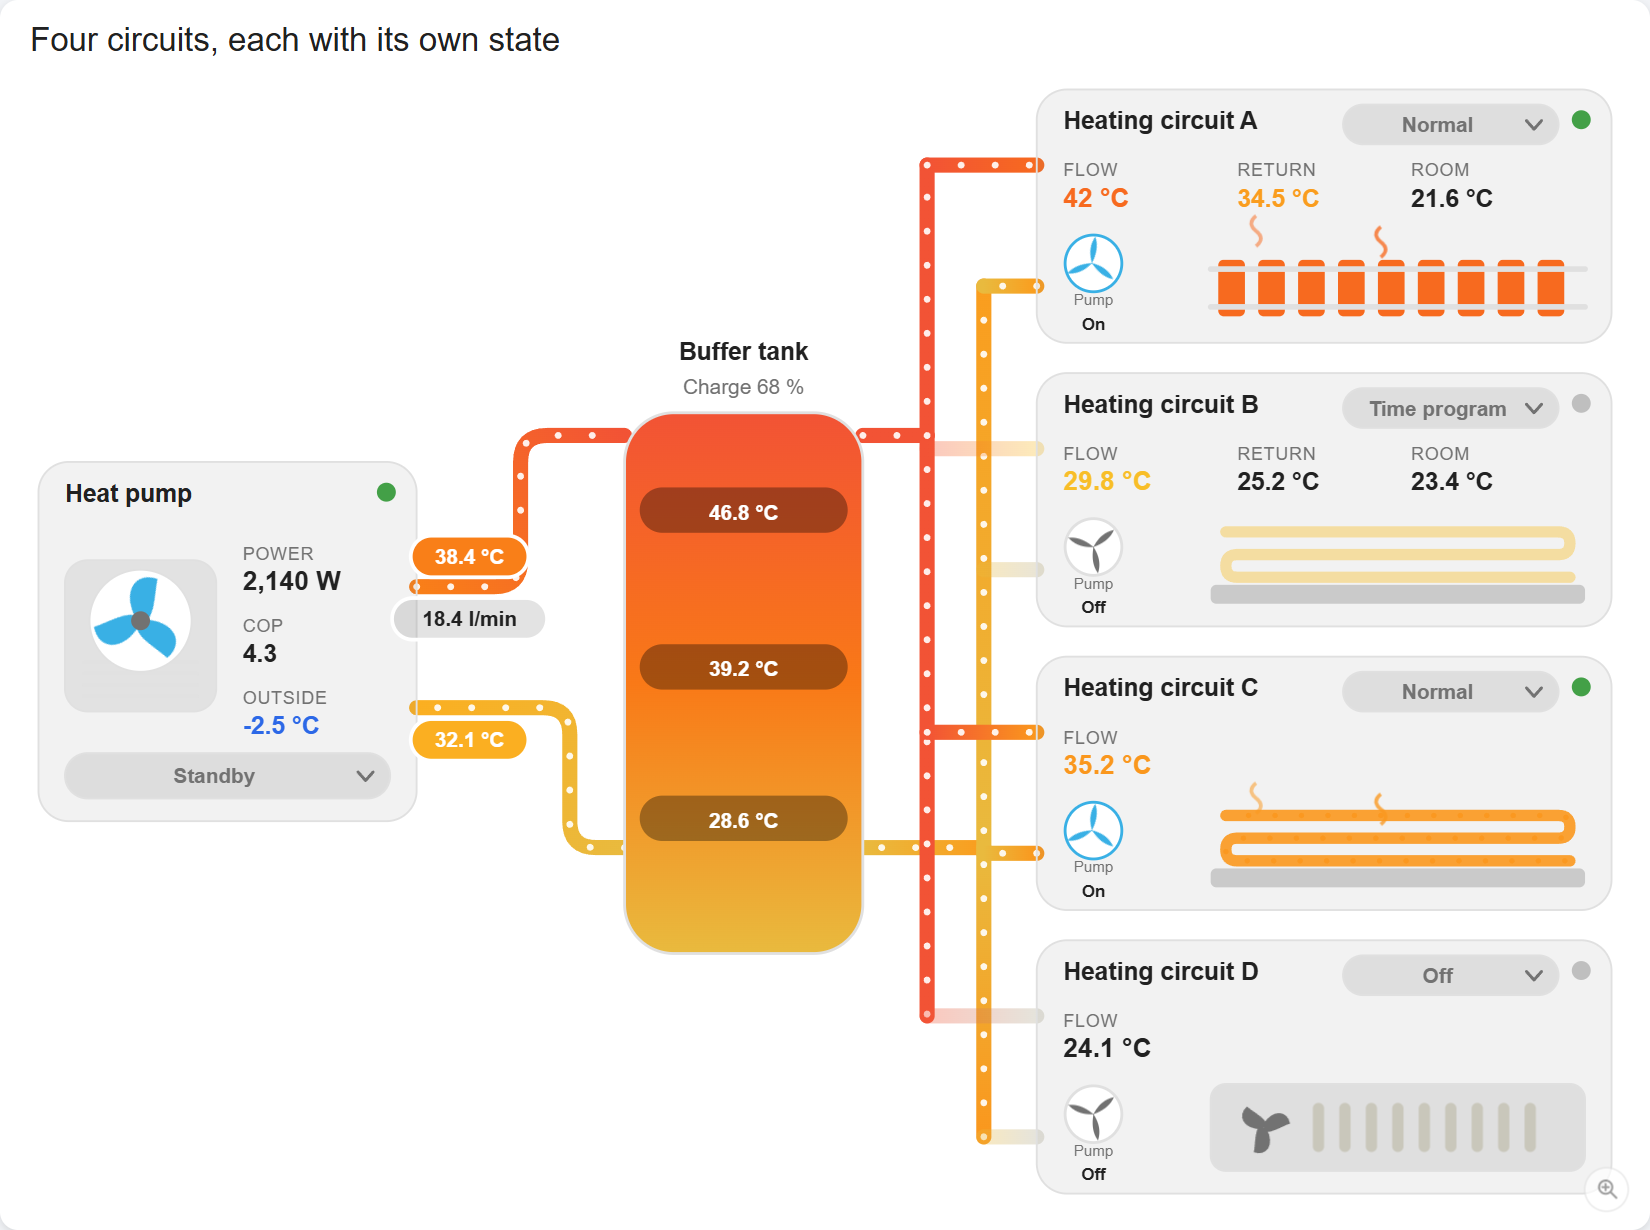
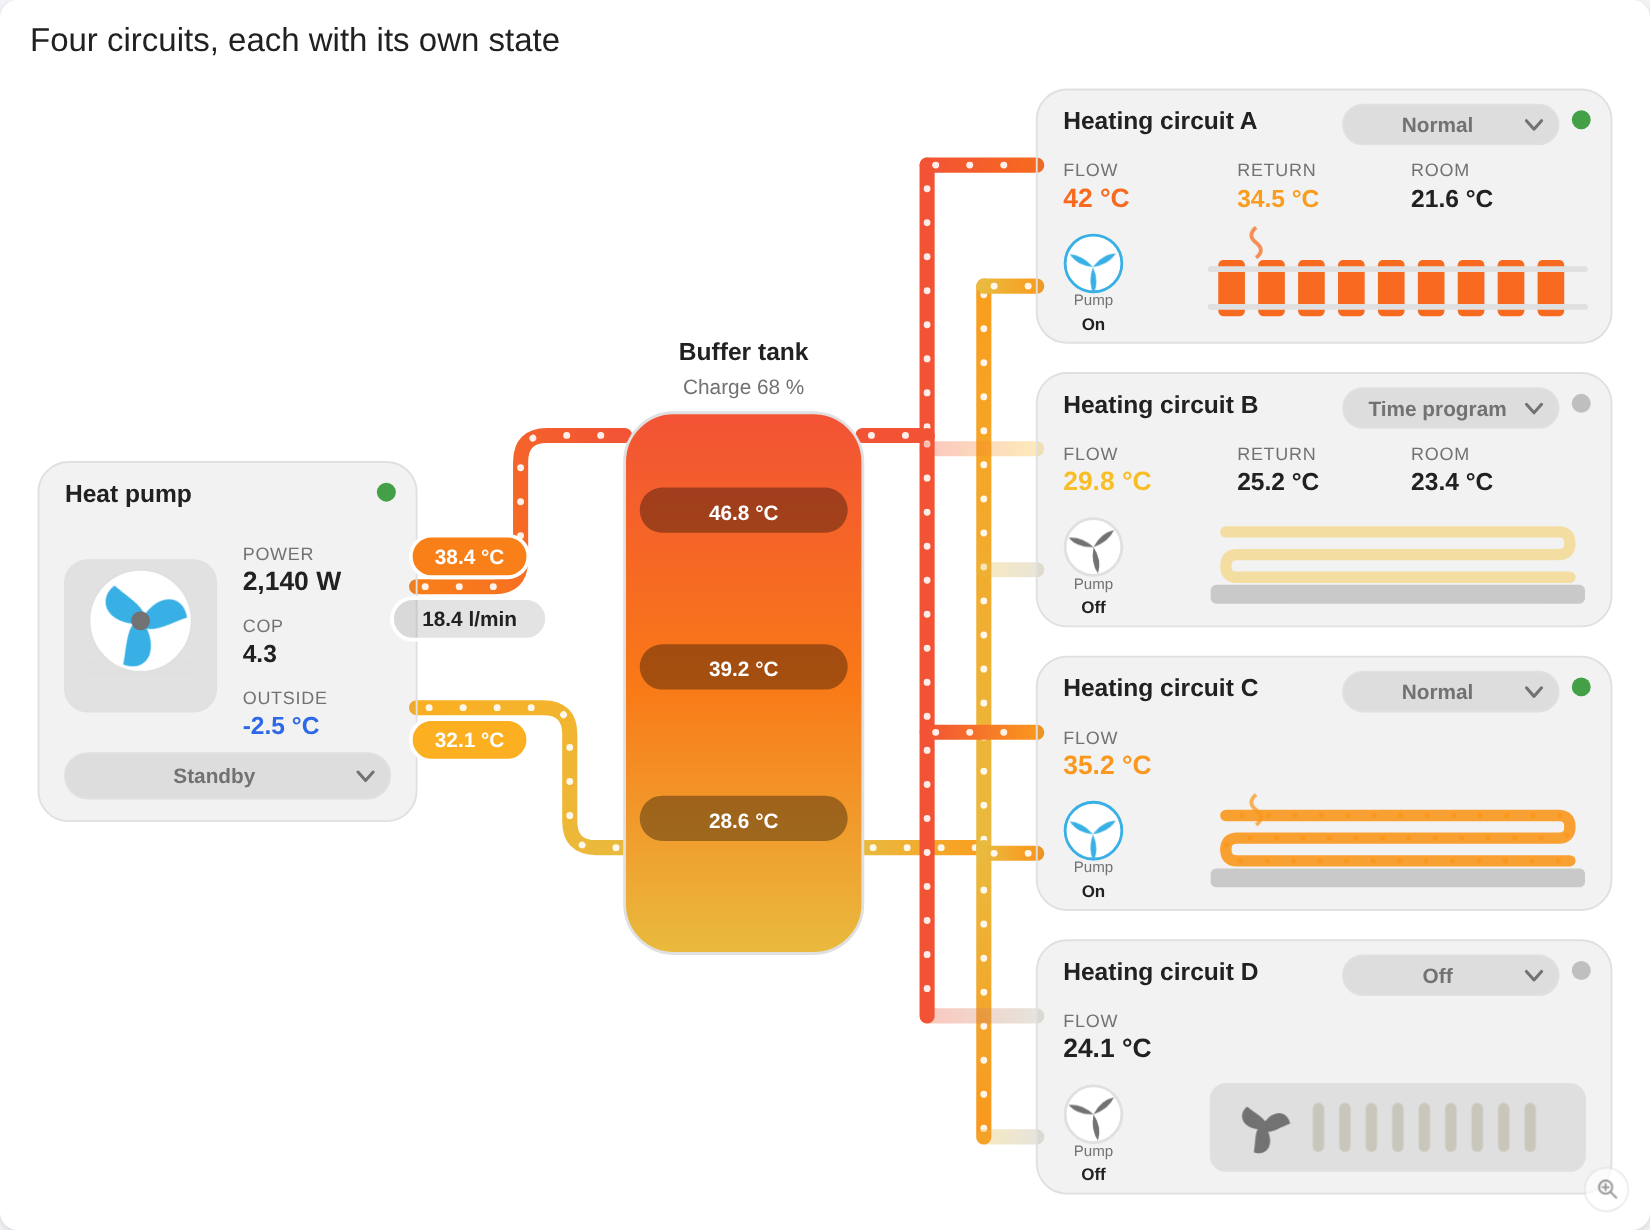
Add dhw.flow_rate badge and draw the tank element from its power meter alone
The litres through the fresh-water station (IDM:
warmwasserstation_durchfluss_web) now appear as a badge under the tank's
inlet, pulsing while water is drawn; above 0.5 l/min the tank counts as
running. Badges can anchor on a right edge so long values grow to the left.

The electric element draws whenever any of heater, heater_power,
heater_temp or heater_mode is set - previously only 'heater' switched the
rod on, so an AC-Thor metered by heater_power alone never appeared. The
glow follows watts (kW meters normalized) with heater_power.threshold as
the deadband.

IDM examples wire the real DHW flow sensor; the IDM example carries the
AC-Thor block. Tests, docs and screenshots updated.

diff --git a/dist/heatpump-flow-card.js b/dist/heatpump-flow-card.js
@@ -961,8 +961,11 @@ function drawReadout(scene, group, x, y, label, field, options) {
 function drawBadge(scene, x, y, field, options) {
   const opts = options || {};
   const group = svgEl("g", { class: "hpfc-badge" });
-  const rect = svgEl("rect", { x: x - 27, y: y - 11, width: 54, height: 22, rx: 11 });
-  const text = svgText(x, y + 4, "–", { "text-anchor": "middle" });
+  // The pill centres on x - unless `rightEdge` is set, in which case it grows
+  // to the left, so a long value never runs into what stands beside it.
+  const center = (width) => (opts.rightEdge !== undefined ? opts.rightEdge - width / 2 : x);
+  const rect = svgEl("rect", { x: center(54) - 27, y: y - 11, width: 54, height: 22, rx: 11 });
+  const text = svgText(center(54), y + 4, "–", { "text-anchor": "middle" });
   group.appendChild(rect);
   group.appendChild(text);
   scene.root.appendChild(group);
@@ -981,8 +984,10 @@ function drawBadge(scene, x, y, field, options) {
     const value = displayValue(hass, field);
     text.textContent = value;
     const width = Math.max(46, value.length * 6.6 + 16);
-    rect.setAttribute("x", String(x - width / 2));
+    const cx = center(width);
+    rect.setAttribute("x", String(cx - width / 2));
     rect.setAttribute("width", String(width));
+    text.setAttribute("x", String(cx));
     const num = numberValue(hass, field);
     const colored =
       scene.config.temperature_colors !== false && isTemperatureUnit(unitOf(hass, field));
@@ -1935,8 +1940,10 @@ function drawTank(scene, box, cfg, options) {
     group.appendChild(svgEl("polyline", { points: points.join(" "), class: "hpfc-coil" }));
   }
 
-  // Electric element in the tank - an AC-Thor, a booster, a backup heater
-  if (opts.heater) {
+  // Electric element in the tank - an AC-Thor, a booster, a backup heater.
+  // Any of its fields is enough to draw it: a plant whose only feedback is the
+  // element's power meter still gets the rod, glowing above its own threshold.
+  if (opts.heater || opts.heaterPower || opts.heaterTemp || opts.heaterMode) {
     const heaterY = tank.y + tank.h * 0.55;
     const heater = svgEl("g", { class: "hpfc-heater" });
     const coilStart = tank.x + tank.w * 0.42;
@@ -1966,19 +1973,31 @@ function drawTank(scene, box, cfg, options) {
     group.appendChild(heater);
 
     // Tapping it operates the mode when there is one - off, auto, boost -
-    // and the element itself otherwise.
-    const control = opts.heaterMode || opts.heater;
-    attachAction(scene, heater, {
-      entity: control.entity,
-      tap_action: control.tap_action,
-      hold_action: control.hold_action,
-      label: opts.heaterLabel,
-    });
+    // the element itself, or at least the power meter that reports it.
+    const control =
+      opts.heaterMode || opts.heater || (opts.heaterPower ? { entity: opts.heaterPower.entity } : null);
+    if (control && control.entity) {
+      attachAction(scene, heater, {
+        entity: control.entity,
+        tap_action: control.tap_action,
+        hold_action: control.hold_action,
+        label: opts.heaterLabel,
+      });
+    }
 
+    // The glow threshold is read in watts, so a kW meter glows as well.
+    const glowThreshold =
+      (opts.heaterPower && opts.heaterPower.threshold !== undefined
+        ? opts.heaterPower.threshold
+        : opts.heater && opts.heater.threshold !== undefined
+          ? opts.heater.threshold
+          : 0);
     scene.add(() => {
       const hass = scene.hass();
-      const power = numberValue(hass, opts.heaterPower);
-      const running = isActive(hass, opts.heater) || (power !== null && power > 0);
+      const watts = powerWatts(hass, opts.heaterPower);
+      const running =
+        (opts.heater && opts.heater.entity ? isActive(hass, opts.heater) : false) ||
+        (watts !== null && watts > glowThreshold);
       heater.classList.toggle("hpfc-on", running);
 
       const parts = [];
@@ -3169,6 +3188,14 @@ function drawDhw(scene, box, cfg) {
   const running = (hass) => {
     // A mode that says off parks the tank, whatever anything else reports.
     if (modeSaysOff(hass, cfg.mode)) return false;
+    // Litres leaving the fresh-water station: someone is drawing water, so the
+    // station is loading - whatever its circulation pump reports at the moment.
+    if (cfg.flow_rate && cfg.flow_rate.entity) {
+      const drawn = numberValue(hass, cfg.flow_rate);
+      if (drawn !== null && drawn > (cfg.flow_rate.threshold !== undefined ? cfg.flow_rate.threshold : 0.5)) {
+        return true;
+      }
+    }
     if (cfg.pump && cfg.pump.entity) return isActive(hass, cfg.pump);
     if (cfg.charge && cfg.charge.entity) {
       const value = numberValue(hass, cfg.charge);
@@ -3330,6 +3357,7 @@ const SECTION_FIELDS = {
     "target_temp",
     "charge",
     "pump",
+    "flow_rate",
     "mode",
     "boost",
     "heater",
@@ -4021,6 +4049,22 @@ function buildScene(card) {
       to: config.buffer ? config.buffer.bottom : config.heatpump.return_temp,
       active: item.running,
     });
+    // Litres through the fresh-water station while someone draws water - the
+    // hot-water counterpart of the heat pump's flow-rate badge, pulsing while
+    // the tap is open. Anchored on the panel's edge, growing to the left.
+    if (item.kind === "dhw" && item.cfg.flow_rate && item.cfg.flow_rate.entity) {
+      const flowBadge = drawBadge(scene, rightX - 46, item.inletY + 17, item.cfg.flow_rate, {
+        label: textsFor(scene.hass()).flow_rate,
+        rightEdge: rightX - 8,
+      });
+      flowBadge.setAttribute("data-part", "dhw-flow");
+      const deadband =
+        item.cfg.flow_rate.threshold !== undefined ? item.cfg.flow_rate.threshold : 0.5;
+      scene.add(() => {
+        const value = numberValue(scene.hass(), item.cfg.flow_rate);
+        flowBadge.classList.toggle("hpfc-flowing", value !== null && value > deadband);
+      });
+    }
   });
 
   // solar thermal circuit
@@ -4365,6 +4409,8 @@ ha-card.hpfc-has-title { padding-top: 4px; }
 .hpfc-badge text { font-size: 11px; font-weight: 700; fill: #ffffff; }
 .hpfc-badge-plain rect { fill: rgba(127, 127, 127, 0.22); }
 .hpfc-badge-plain text { fill: var(--hpfc-text); }
+/* Water is being drawn: the flow badge breathes while the tap is open. */
+.hpfc-badge.hpfc-flowing rect { animation: hpfc-glow 1.6s ease-in-out infinite; }
 
 /* tanks ----------------------------------------------------------------- */
 .hpfc-tank-fill { transition: fill 1s ease; }
@@ -4457,7 +4503,7 @@ ha-card.hpfc-has-title { padding-top: 4px; }
 .hpfc-valve.hpfc-running .hpfc-valve-body { fill: var(--info-color, #39b0e5); }
 
 @media (prefers-reduced-motion: reduce) {
-  .hpfc-spin, .hpfc-dots, .hpfc-heatwave, .hpfc-sun { animation: none !important; }
+  .hpfc-spin, .hpfc-dots, .hpfc-heatwave, .hpfc-sun, .hpfc-flowing rect { animation: none !important; }
 }
 `;
 
@@ -5132,6 +5178,7 @@ const EDITOR_SECTIONS = {
     "mode",
     "boost",
     "pump",
+    "flow_rate",
     "charge",
     "heater",
     "heater_power",

diff --git a/tools/preview-config.js b/tools/preview-config.js
@@ -91,6 +91,7 @@ window.previewConfigs = {
       temp: "sensor.dhw_temperature",
       target_temp: "number.dhw_setpoint",
       pump: "binary_sensor.dhw_pump",
+      flow_rate: "sensor.dhw_flow_rate",
       boost: "button.dhw_boost",
     },
     circuits: [radiators, underfloor],
@@ -221,6 +222,7 @@ window.previewConfigs = {
       temp: "sensor.dhw_temperature",
       target_temp: "number.dhw_setpoint",
       pump: "binary_sensor.dhw_pump",
+      flow_rate: "sensor.dhw_flow_rate",
       boost: "button.dhw_boost",
     },
     pv: {

diff --git a/tools/demo-hass.js b/tools/demo-hass.js
@@ -191,6 +191,11 @@ window.demoStates["sensor.hp_flow_rate"] = {
   state: "18.4",
   attributes: { friendly_name: "Flow rate", unit_of_measurement: "l/min" },
 };
+window.demoStates["sensor.dhw_flow_rate"] = {
+  entity_id: "sensor.dhw_flow_rate",
+  state: "7.2",
+  attributes: { friendly_name: "Hot water flow", unit_of_measurement: "l/min" },
+};
 window.demoStates["sensor.solar_flow_temperature"] = {
   entity_id: "sensor.solar_flow_temperature",
   state: "58.2",

diff --git a/docs/wiki/Configuration-de.md b/docs/wiki/Configuration-de.md
@@ -74,8 +74,8 @@ fließen.
 | `entity` | Klick auf den Speicher bedient diese Entität |
 | `top`, `middle`, `bottom` | Schichttemperaturen – füllen den Speicher mit Verlauf und erscheinen als Pillen |
 | `charge` | Ladezustand, unter dem Namen |
-| `heater` | Heizstab im Speicher – glüht, solange er Leistung zieht, Klick bedient ihn |
-| `heater_power` | Dessen Leistung, unter dem Heizstab |
+| `heater` | Heizstab im Speicher – glüht, solange er Leistung zieht, Klick bedient ihn. Darf auch der Leistungssensor selbst sein, mit `threshold` in Watt |
+| `heater_power` | Dessen Leistung, unter dem Heizstab – und allein schon genug, um ihn zu zeichnen |
 | `heater_temp` | Seine eigene Temperatur, neben der Leistung |
 | `heater_mode` | Aus / Automatik / Boost – übernimmt den Klick auf den Heizstab |
 
@@ -86,6 +86,11 @@ wird nur sein *Aus* ausgeschrieben. Eine `select`- oder `climate`-Betriebsart
 steht immer da, weil benannte Optionen etwas tragen, das die Zeichnung nicht
 zeigen kann.
 
+Jedes der vier Felder zeichnet den Heizstab bereits – eine Anlage, deren einzige
+Rückmeldung das Leistungsmesser des AC-Thor ist, setzt nur `heater_power` und
+sieht den Stab trotzdem, glühend ab `heater_power.threshold` Watt (standardmäßig
+jeder positive Wert).
+
 
 Nur `top` und `bottom` konfiguriert → zwei Pillen. Gar nichts → drei leere.
 `buffer: false` verrohrt die Wärmepumpe direkt auf die Heizkreise.
@@ -93,8 +98,10 @@ Nur `top` und `bottom` konfiguriert → zwei Pillen. Gar nichts → drei leere.
 ## dhw
 
 `name`, `entity`, `temp`, `target_temp` (Klick öffnet das Stellfeld), `mode`
-(Betriebsart-Chip), `boost` (Chip für die Einmalladung), `pump`, `charge`,
-`heater`, `heater_power`.
+(Betriebsart-Chip), `boost` (Chip für die Einmalladung), `pump`,
+`flow_rate` (Liter pro Minute durch die Warmwasserstation, als Badge unter
+dem Tanks-Einlass; über 0,5 l/min – oder `threshold` – zählt der Tank als
+laufend, während Wasser gezapft wird), `charge`, `heater`, `heater_power`.
 
 ## pv und solar
 

diff --git a/docs/wiki/Configuration.md b/docs/wiki/Configuration.md
@@ -72,8 +72,8 @@ tank flow.
 | `entity` | Tapping the tank operates this entity |
 | `top`, `middle`, `bottom` | Layer temperatures — they fill the tank with a gradient and print as pills |
 | `charge` | Charge level, printed under the name |
-| `heater` | Electric element inside the tank — glows while it draws power, tap to operate |
-| `heater_power` | Its power, printed under the element |
+| `heater` | Electric element inside the tank — glows while it draws power, tap to operate. Can be the power sensor itself, with a `threshold` in watts |
+| `heater_power` | Its power, printed under the element — and on its own already enough to draw it |
 | `heater_temp` | Its own temperature, printed next to the power |
 | `heater_mode` | Off / automatic / boost — takes over the tap on the element |
 
@@ -82,6 +82,10 @@ The element's caption carries its `heater_mode` next to the name. A plain
 to run, which the glow and the wattage already answer, so only its *off* state
 is written out. A `select` or `climate` mode is always shown, because named
 options carry something the drawing cannot.
+
+Any one of the four fields draws the element — a plant whose only feedback is
+the AC-Thor's power meter sets `heater_power` alone and still sees the rod,
+glowing above `heater_power.threshold` watts (any positive value by default).
 
 
 Configure only `top` and `bottom` and the tank shows two pills; configure none
@@ -99,6 +103,7 @@ the circuits.
 | `mode` | Operating mode chip (`select` or `water_heater`) |
 | `boost` | Extra chip for a one-time charge (`button` or `switch`) |
 | `pump` | Charging pump |
+| `flow_rate` | Litres per minute through the fresh-water station, as a badge under the tank's inlet that pulses while water is drawn. Above 0.5 l/min (or `threshold`) the tank counts as running |
 | `charge` | Charge level |
 
 ## pv and solar

diff --git a/README.de.md b/README.de.md
@@ -225,11 +225,14 @@ schlecht erklären kann:
   `compressor`, wenn gesetzt, sonst nach dem Zustand der Wärmepumpe. Ein Sensor
   genügt, um ihn anzuzeigen; fehlende bleiben leer, und mit `ref_circuit: false`
   ist er wieder aus.
-* **Ein Heizstab im Speicher.** `heater` und `heater_power` bei `buffer` oder
-  `dhw` zeichnen einen Heizstab in den Speicher – ein my-PV AC-Thor, ein
-  Booster, eine Notheizung –, der glüht, solange er Leistung zieht,
-  beschriftet mit Namen, Leistung und – über `heater_temp` – seiner eigenen
-  Temperatur. Mit `heater_mode` bietet ein Klick Aus / Automatik / Boost an.
+* **Ein Heizstab im Speicher.** Ein Heizstab bei `buffer` oder `dhw` – ein my-PV
+  AC-Thor, ein Booster, eine Notheizung – wird gezeichnet, sobald *eines* der
+  Felder `heater`, `heater_power`, `heater_temp`, `heater_mode` gesetzt ist:
+  Eine Anlage, deren einzige Rückmeldung das Leistungsmesser des Stabs ist,
+  setzt nur `heater_power`. Er glüht, solange er Leistung zieht (ab
+  `heater_power.threshold` Watt), beschriftet mit Namen, Leistung und – über
+  `heater_temp` – seiner eigenen Temperatur. Mit `heater_mode` bietet ein Klick
+  Aus / Automatik / Boost an.
 
 ```yaml
 heatpump:
@@ -356,7 +359,12 @@ die Heizkreise direkt.
 
 ### `dhw`
 
-`name`, `entity`, `temp`, `target_temp`, `charge`, `pump`, `mode`, `boost`
+`name`, `entity`, `temp`, `target_temp`, `charge`, `pump`, `flow_rate`, `mode`,
+`boost`, `heater`, `heater_power`
+
+`flow_rate` sind die Liter pro Minute der Warmwasserstation – eine Badge unter
+dem Tanks-Einlass, die pulsiert, während Wasser gezapft wird; über 0,5 l/min
+(oder `threshold`) zählt der Tank als laufend.
 
 ### `pv` / `solar`
 

diff --git a/CHANGELOG.md b/CHANGELOG.md
@@ -21,6 +21,32 @@ changes shipped with the next tagged release.
 
 ## [Unreleased]
 
+### Added
+
+- **`dhw.flow_rate`: the litres are on the drawing.** A fresh-water station
+  that reports its flow — `sensor.alm6_15_warmwasserstation_durchfluss_web`
+  on an IDM Navigator — gets a badge under the tank's inlet, next to the flow
+  temperature's own badge on the heat pump. It pulses while someone draws
+  water, and above 0.5 l/min (or the field's `threshold`) the tank counts as
+  running: drawing water is exactly when the station loads, so its pipes
+  animate even while the circulation pump rests. Also in the visual editor.
+- The IDM examples wire the DHW flow meter: the live-verified
+  `07-idm-solaredge-paradigma.yaml` and `09-dashboard-idm.yaml` with the real
+  `warmwasserstation_durchfluss_web` sensor, `06-idm-heatpump.yaml` with the
+  integration's `hotwater_station_flow_web` slug — and the IDM example now
+  carries the AC-Thor block as well, so the element is on the drawing for
+  plants that follow it.
+
+### Fixed
+
+- **The electric element draws even without an on/off entity.** The rod inside
+  the tank appeared only when `heater` was set; a plant whose only feedback is
+  the AC-Thor's power meter set `heater_power` and got nothing. Any of
+  `heater`, `heater_power`, `heater_temp`, `heater_mode` now draws it, the
+  glow follows the watts (normalized, so a kW meter counts), and
+  `heater_power.threshold` sets the deadband in watts. Tapping the element
+  without a mode or switch opens the power meter's more-info dialog.
+
 ## [1.11.0-beta.1] - 2026-10-29
 
 This is a prerelease for testing the electrical-flow fixes and the optional hub

diff --git a/README.md b/README.md
@@ -219,11 +219,14 @@ afterwards:
   `compressor` when it is set, otherwise by the state of the heat pump. Set any
   one of them to show it, leave out the ones you do not have, or switch it off
   again with `ref_circuit: false`.
-* **An electric element in the tank.** `heater` and `heater_power` on `buffer`
-  or `dhw` draw a heating element inside the tank — a my-PV AC-Thor, a booster,
-  a backup heater — glowing while it draws power, captioned with its name, its
-  power and, with `heater_temp`, its own temperature. Give it a `heater_mode`
-  and one tap offers off / automatic / boost.
+* **An electric element in the tank.** An electric element on `buffer` or
+  `dhw` — a my-PV AC-Thor, a booster, a backup heater — is drawn when *any* of
+  `heater`, `heater_power`, `heater_temp`, `heater_mode` is set: a plant whose
+  only feedback is the element's power meter sets `heater_power` alone. It
+  glows while it draws power (above `heater_power.threshold` watts) and is
+  captioned with its name, its power and, with `heater_temp`, its own
+  temperature. Give it a `heater_mode` and one tap offers off / automatic /
+  boost.
 
 ```yaml
 heatpump:
@@ -347,8 +350,12 @@ circuits.
 
 ### `dhw`
 
-`name`, `entity`, `temp`, `target_temp`, `charge`, `pump`, `mode`, `boost`, `heater`,
-`heater_power`
+`name`, `entity`, `temp`, `target_temp`, `charge`, `pump`, `flow_rate`, `mode`,
+`boost`, `heater`, `heater_power`
+
+`flow_rate` is the fresh-water station's litres per minute — a badge under the
+tank's inlet that pulses while someone draws water, and above 0.5 l/min (or
+`threshold`) the tank counts as running.
 
 ### `pv` / `solar`
 
